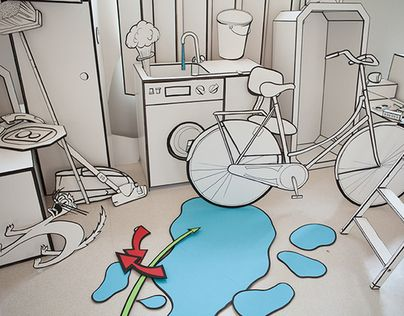
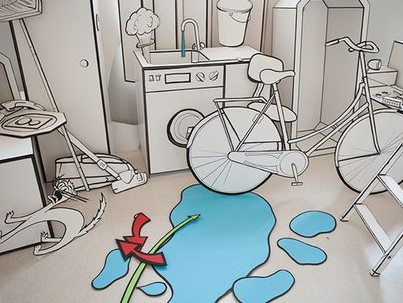
首頁:切換圖片768px以下
未完成:
首頁:切換圖片768px up

一級優化:
預約頁:順暢切換更多主題、輸入驗證

二級優化:
消息頁:標籤可挑選、切換分類同步文章
載入效果
ios 各種無效修正

diff --git a/home_page.html b/home_page.html
@@ -106,14 +106,23 @@
         <h2>說謊的相機</h2>
         
         <div class="pic scroll-right_in">
-          <div class="top">
+          <div>
+            <img src="pic/lie_photo-04.webp" alt="行李箱相機">
+          </div>
+          <div>
             <img src="pic/lie_photo-01.webp" alt="很多照片">
           </div>
           <div class="front">
             <img src="pic/lie_photo-02.webp" alt="說謊的相機主圖">
           </div>
-          <div class="bottom">
-            <img src="pic/lie_photo-03.jpg" alt="拍力得">
+          <div>
+            <img src="pic/lie_photo-04.webp" alt="行李箱相機">
+          </div>
+          <div>
+            <img src="pic/lie_photo-01.webp" alt="很多照片">
+          </div>
+          <div>
+            <img src="pic/lie_photo-02.webp" alt="說謊的相機主圖">
           </div>
         </div>
 
@@ -153,14 +162,23 @@
         <h2>美麗實驗</h2>
 
         <div class="pic scroll-left_in">
-          <div class="top">
+          <div>
+            <img src="pic/beauty-03.jfif" alt="手術室">
+          </div>
+          <div>
             <img src="pic/beauty-01.jpg" alt="手術工具">
           </div>
           <div class="front">
             <img src="pic/beauty-02.webp" alt="美麗實驗主圖">
           </div>
-          <div class="bottom">
+          <div>
             <img src="pic/beauty-03.jfif" alt="手術室">
+          </div>
+          <div>
+            <img src="pic/beauty-01.jpg" alt="手術工具">
+          </div>
+          <div>
+            <img src="pic/beauty-02.webp" alt="美麗實驗主圖">
           </div>
         </div>
         
@@ -201,15 +219,28 @@
         <h2>眼中的倒影</h2>
 
         <div class="pic scroll-right_in">
-          <div class="top">
-            <img src="pic/circus-01.webp" alt="馬戲裝飾">
+          <div>
+            <img src="pic/circus-03.webp" alt="馬戲場景">
+          </div>
+          <div>
+            <img src="pic/circus-04.jpg" alt="門票">
           </div>
           <div class="front">
             <img src="pic/circus-02.webp" alt="眼中的倒影主圖">
           </div>
-          <div class="bottom">
+          <div>
             <img src="pic/circus-03.webp" alt="馬戲場景">
           </div>
+          <div>
+            <img src="pic/circus-04.jpg" alt="門票">
+          </div>
+          <div>
+            <img src="pic/circus-02.webp" alt="眼中的倒影主圖">
+          </div>
+          <!-- <div>
+            <img src="pic/circus-01.webp" alt="馬戲裝飾">
+            <img src="pic/circus-04.jpg" alt="門票">
+          </div> -->
         </div>
 
         <div class="text scroll-left_in">
@@ -250,15 +281,27 @@
         <h2>白日夢</h2>
 
         <div class="pic scroll-left_in">
-          <div class="top">
+          <div>
+            <img src="pic/daydream-04.jpg" alt="浴缸">
+          </div>
+          <div>
             <img src="pic/daydream-01.webp" alt="筆筒">
           </div>
           <div class="front">
             <img src="pic/daydream-02.jpg" alt="白日夢主圖">
           </div>
-          <div class="bottom">
-            <img src="pic/daydream-03.jpg" alt="水灑了">
+          <div>
+            <img src="pic/daydream-04.jpg" alt="浴缸">
           </div>
+          <div>
+            <img src="pic/daydream-01.webp" alt="筆筒">
+          </div>
+          <div class="front">
+            <img src="pic/daydream-02.jpg" alt="白日夢主圖">
+          </div>
+          <!-- <div>
+            <img src="pic/daydream-03.jpg" alt="水灑了">
+          </div> -->
         </div>
 
         <div class="text scroll-right_in">
@@ -295,34 +338,16 @@
 
 <!-- slider -->
 <script>
-  function slider(windowSize){
-    // 重置
-    // let curIndex = 0;
-    // let maxIndex = 0;
-    // if(windowSize>992){
-    //   maxIndex = 2;
-    // }else if(windowSize>768){
-    //   maxIndex = 3;
-    // };
-    // $(".btnGroup input:first-of-type").attr('disabled',true);
-    // $(".btnGroup input:last-of-type").attr('disabled',false);
-    // 點擊事件
-    $('.btnGroup input:first-of-type').on('click',function(){
-
-    });
-    
-    $('.btnGroup input:last-of-type').on('click',function(){
-      
-    });
-  };
   $(function(){
-    console.log($('.topic .pic .top'));
-    slider($(window).width());
-    $(window).resize(function(){
-      // $('.topicGroup').css({
-      //   left:`0`,
-      // });
-      // slider($(window).width());
+    $(document).on('click','.topic .pic div:nth-of-type(2)',function(){
+      $(this).next().removeClass('front');
+      $(this).addClass('front');
+      $(this).parent().prepend($(this).next().next().next().next());
+    });
+    $(document).on('click','.topic .pic div:nth-of-type(4)',function(){
+      $(this).prev().removeClass('front');
+      $(this).addClass('front');
+      $(this).parent().append($(this).prev().prev().prev());
     });
   });
 </script>

diff --git a/home_page.css b/home_page.css
@@ -147,10 +147,6 @@
 .feedback .pic img{
   height: 100%;
   transform: scale(1.2);
-  /* position: relative;
-  top: 50%;
-  left: 50%;
-  transform: translate(-50%,-50%); */
 }
 .feedback .txt{
   height: 25%;
@@ -161,6 +157,26 @@
 .feedback .txt p{
   font-size: 14px;
   line-height: 1.2;
+}
+/* 造型 */
+#light_off::before,
+#light_off::after{
+  content: '';
+  position: absolute;
+  width: 120px;
+  height: 120px;
+  left: 50%;
+  top: 50%;
+  background-color: rgb(255, 224, 229);
+  border: 15px solid #F3D764;
+}
+#light_off::after{
+  transform: translate(calc(-50% + 130px),calc(-50% - 130px)) rotate(-30deg);
+  border-radius: 0 30px 80% 0;
+}
+#light_off::before{
+  transform: translate(calc(-50% - 130px),calc(-50% - 130px)) rotate(-60deg);
+  border-radius: 80% 30px 0;
 }
 
 main section:first-child{
@@ -187,7 +203,6 @@ main::after{
   border-left: none;
   border-right: 55vw solid #220000;
 }
-
 
 .hot_topic{
   margin: auto;
@@ -233,21 +248,23 @@ main::after{
 }
 .topic .pic div{
   position: relative;
-  border-radius: 10px;
   overflow: hidden;
   height: 70%;
+  width: 17%;
   filter: brightness(50%);
-  transition: .3s;
+  transition: .5s;
 }
 .topic .pic .front {
+  border-radius: 10px;
   height: 100%;
   filter: brightness(100%);
-  box-shadow: 0 0 30px 10px #000;
-  position: absolute;
-  top:50%;
-  left: 50%;
-  transform: translate(-50%, -50%);
+  width: 66%;
   z-index: 1;
+}
+.topic .pic div:nth-of-type(1),
+.topic .pic div:nth-of-type(5),
+.topic .pic div:nth-of-type(6){
+  width: 0;
 }
 .topic .pic img{
   height: 100%;

diff --git a/news_page.css b/news_page.css
@@ -8,10 +8,6 @@
   background-size: cover;
 }
 
-
-
-
-
 main section{
   margin: auto;
   line-height: 2em;
